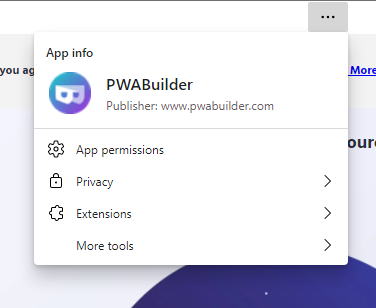
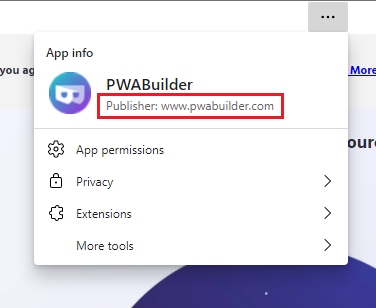
Added red boxes to App Info menu screenshots

Changed region(s): [[0.234, 0.2922, 0.7606, 0.4091]]

diff --git a/microsoft-edge/progressive-web-apps-chromium/whats-new/pwa.md b/microsoft-edge/progressive-web-apps-chromium/whats-new/pwa.md
@@ -50,13 +50,13 @@ You can now register your PWA to handle specific protocols with the host operati
 
 Learn more about using protocol handlers with your PWA at [Experimental features in Progressive Web Apps (PWAs)][ExpProtocolHandlers].
 
-## Streamlined app-info menus
+## Streamlined App Info menu
 
 When a user selects the **Settings** (**...**) menu in the app's title bar, the **App info** menu is displayed.  We've updated the **App info** menu and streamlined the user experience in the following ways, to provide a user experience that's more like a desktop app than a browser UI:
-*  Moved the app publisher information to the top level and made it the first thing a user sees.
+*  Moved the app **Publisher** information to the top level and made it the first thing a user sees.
 
-   :::image type="complex" source="media/app-info.png" alt-text="The new, streamlined app-info menu" lightbox="media/app-info.png":::
-      The new, streamlined app-info menu
+   :::image type="complex" source="media/app-info.png" alt-text="The new, streamlined App Info menu" lightbox="media/app-info.png":::
+      The new, streamlined **App info** menu
    :::image-end:::
 
 *  Moved the privacy information and controls into a dedicated 2nd-level **Privacy** menu.
